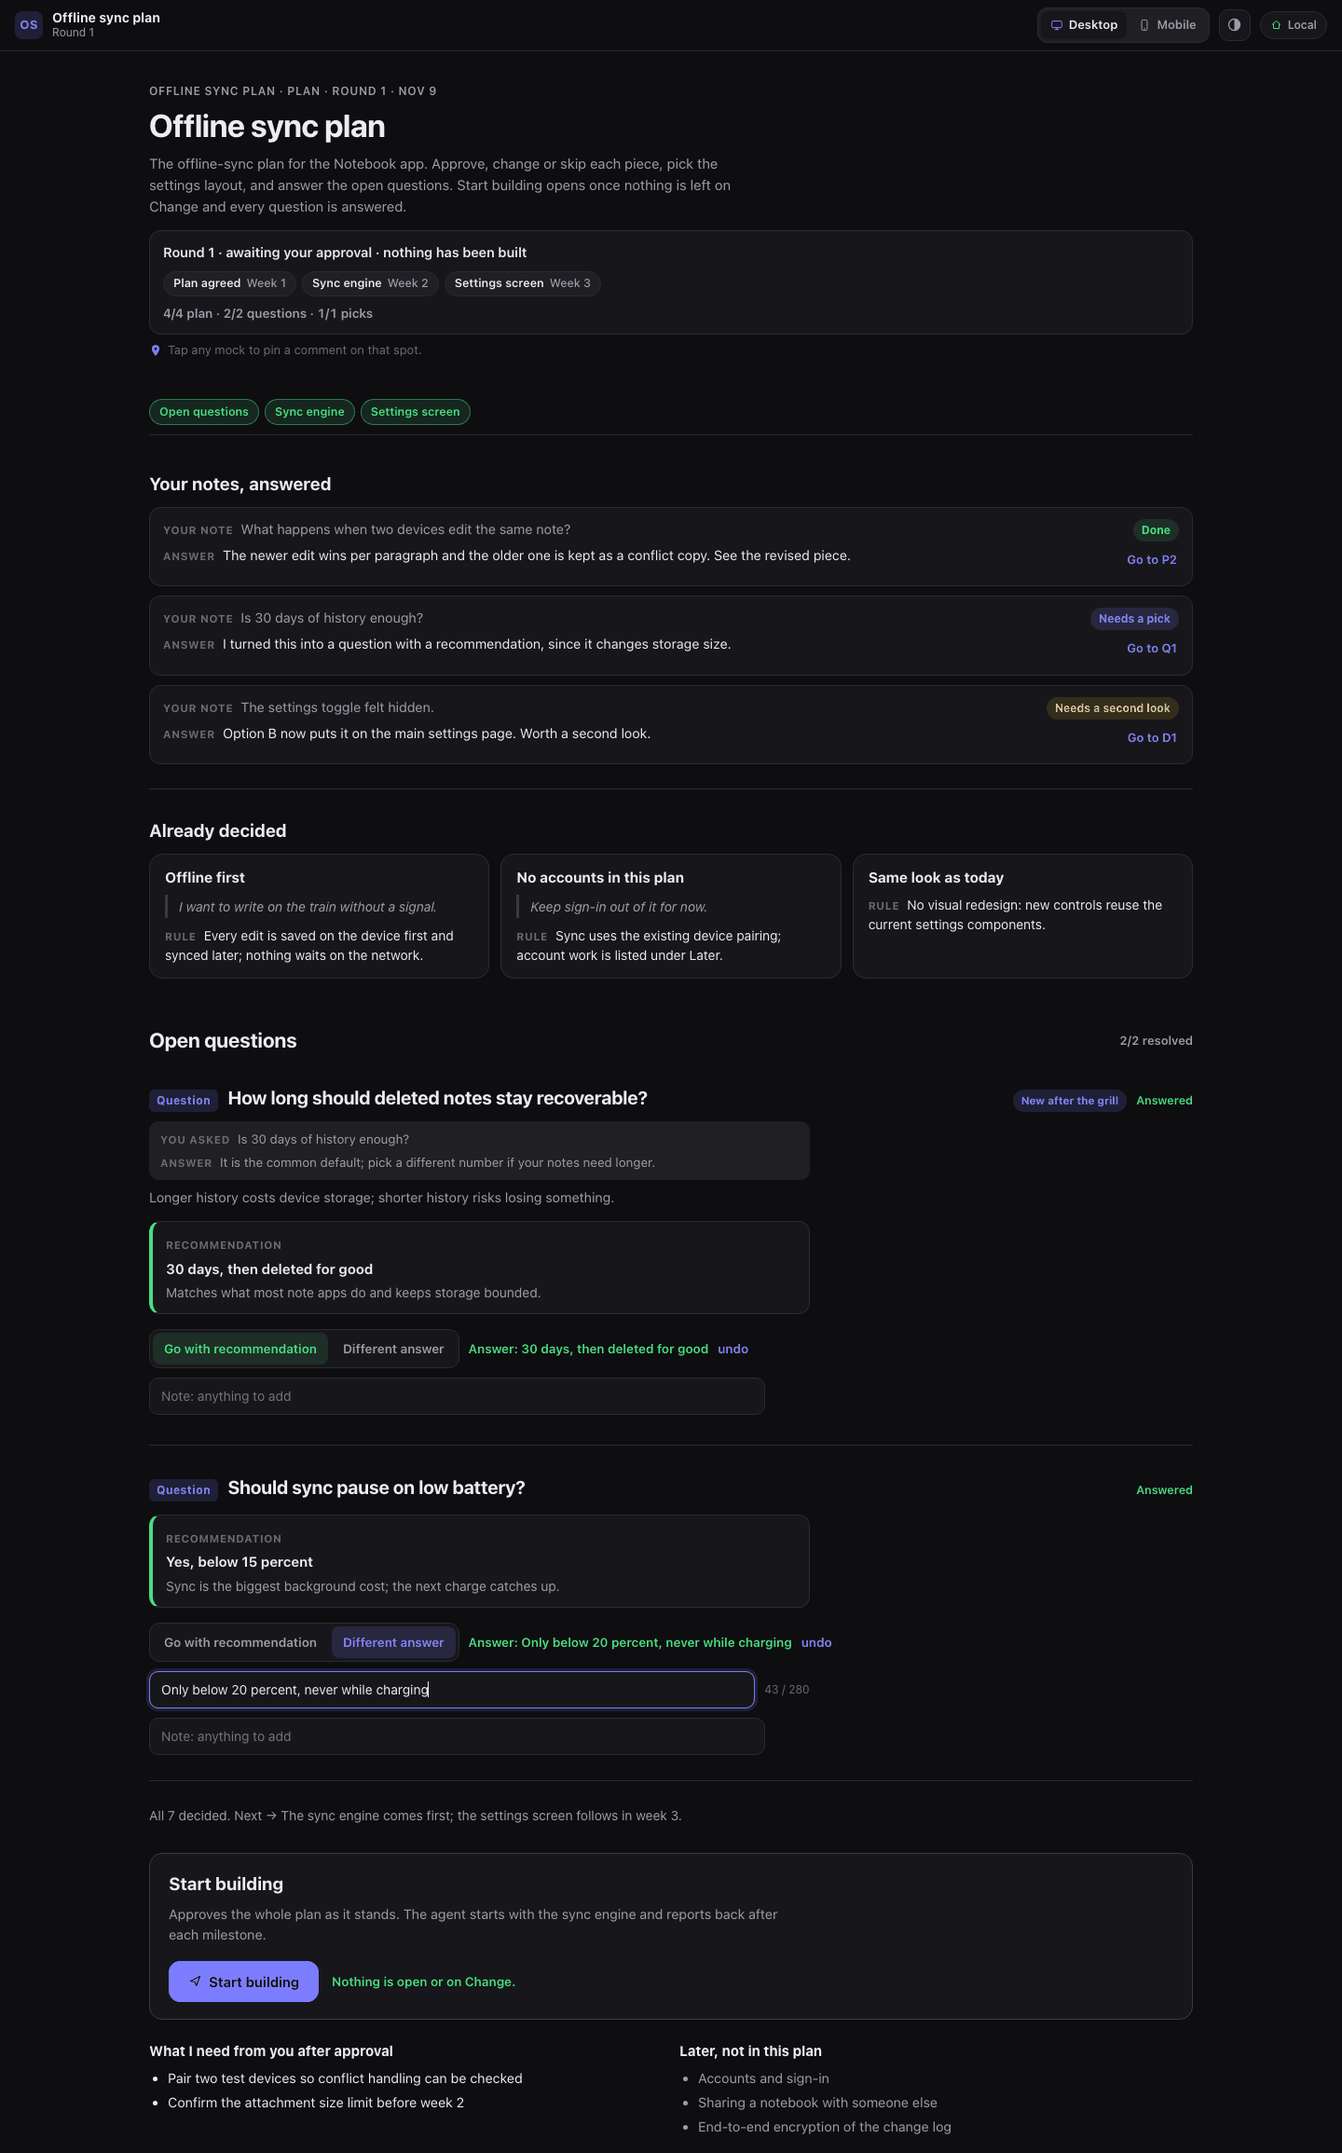
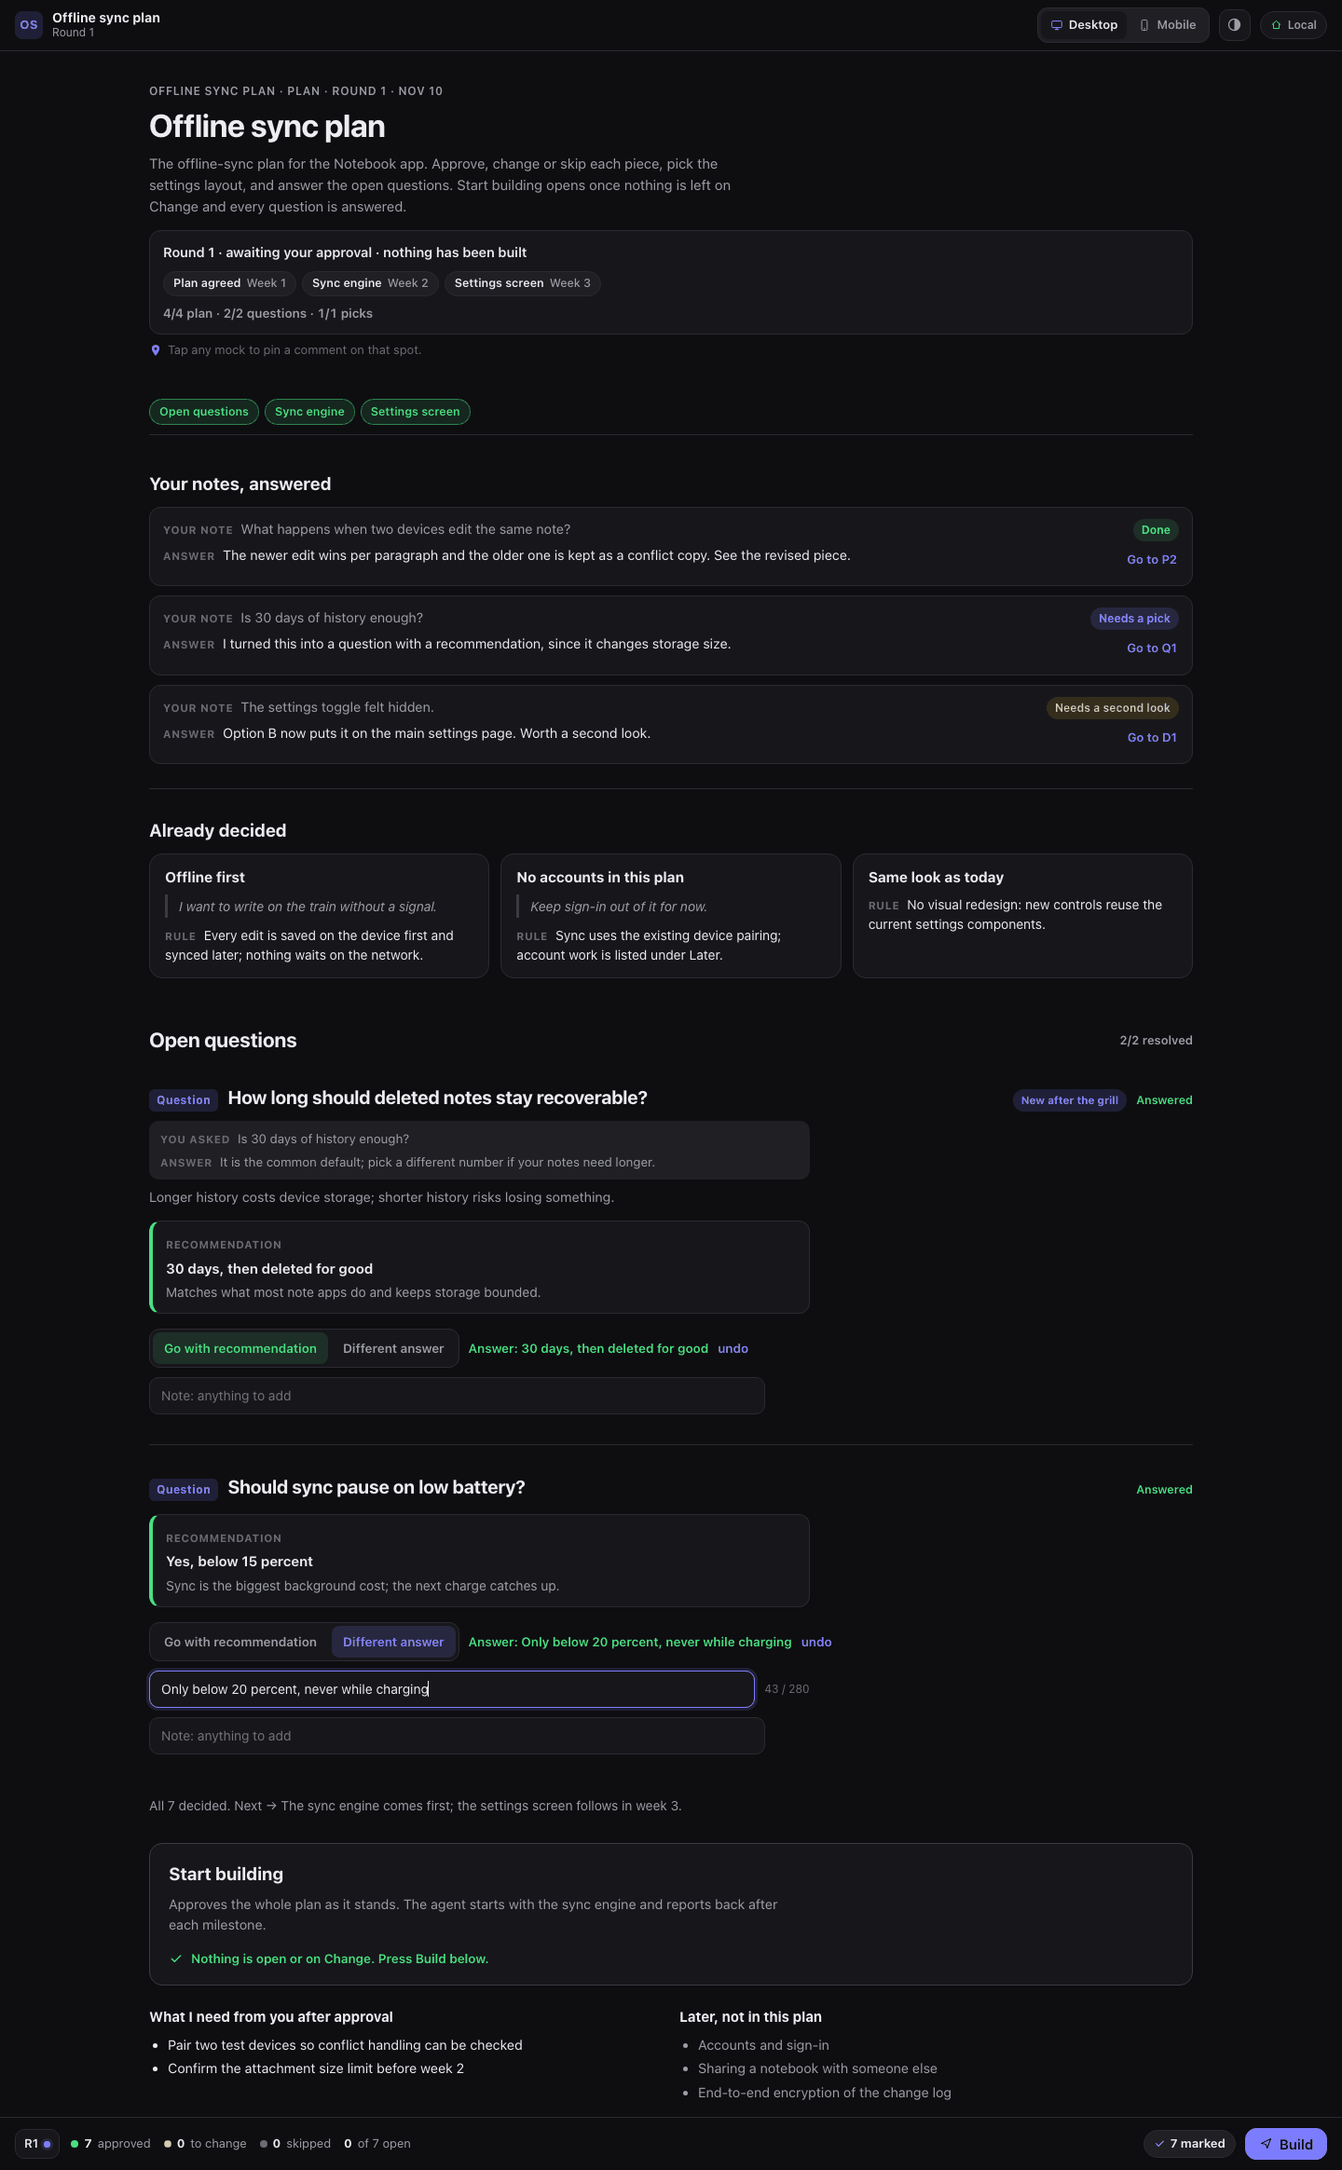
fix(board): Build takes the footer's Send slot, the section bar stays pinned on phones, and a question-or-decision rule
- A gate round has one footer button: Send notes until nothing is open or on Change, then Build. The gate card keeps the
  live reason (lock or check) and no longer carries its own button.
- The section jump bar stays sticky under the header on phones too.
- Usage skill and decisions format: if the answers can be listed, use a decision; a question is for a value or policy
  the user owns.
- README and plan-board screenshot updated.

diff --git a/mockreview/board/board.js b/mockreview/board/board.js
@@ -1275,10 +1275,8 @@
     if (pressed) {
       append(card, h('p', { class: 'gate-done', role: 'status' }, icon('check'), label + ' pressed' + (pressedAt(r) ? ' · ' + pressedAt(r) : '')));
     } else {
-      append(card, h('div', { class: 'gate-actions' },
-        h('button', { class: 'btn btn-primary btn-gate', id: 'gate-btn', onclick: function () { if (gateState(r.decisions, S.draft.marks, g).ready && isEditable()) send('build'); } },
-          icon(gateIcon(false, true)), h('span', { class: 'gate-label', text: label })),
-        h('span', { class: 'gate-reason', id: 'gate-reason' })));
+      // the Build button itself lives in the footer, in the Send slot; the card keeps the live reason
+      append(card, h('div', { class: 'gate-actions' }, icon('lock'), h('span', { class: 'gate-reason', id: 'gate-reason' })));
     }
     var after = g.after || [], later = g.later || [];
     var lists = after.length || later.length ? h('div', { class: 'gate-lists' },
@@ -1288,20 +1286,30 @@
     setTimeout(updateGate, 0);
     return sec;
   }
+  var GATE_BTN = 'Build';   // short, so it fits the footer's Send slot on a phone
+  function gateReason(gs, ed) {
+    return !ed ? 'This round is locked.' : S.sending ? 'Sending…' : gs.ready ? 'Nothing is open or on Change.' : gs.reason;
+  }
   function updateGate() {
-    var btn = document.getElementById('gate-btn'); if (!btn) return;
     var r = viewed(), g = r.gate || (DOC && DOC.dec.gate); if (!g) return;
     var gs = gateState(r.decisions, S.draft.marks, g), ed = isEditable();
     var ok = gs.ready && ed && !S.sending;
-    var reason = !ed ? 'This round is locked.' : S.sending ? 'Sending…' : gs.ready ? 'Nothing is open or on Change.' : gs.reason;
+    var reason = gateReason(gs, ed);
+    var rs = document.getElementById('gate-reason');
+    if (rs) {
+      rs.textContent = gs.ready && ed && !S.sending ? reason + ' Press ' + GATE_BTN + ' below.' : reason;
+      rs.classList.toggle('ready', ok);
+      var gi = rs.parentNode ? Array.prototype.filter.call(rs.parentNode.children, function (c) { return /^svg$/i.test(c.tagName); })[0] : null;
+      var want0 = ok ? 'check' : 'lock';
+      if (gi && gi.getAttribute('data-icon') !== want0) gi.replaceWith(icon(want0));
+    }
+    var btn = document.getElementById('gate-btn'); if (!btn) return;
     btn.setAttribute('aria-disabled', ok ? 'false' : 'true');
     btn.title = ok ? (g.label || 'Start building') + ': send the approved plan to Hermes' : reason;
     btn.classList.toggle('is-disabled', !ok);
     var want = gateIcon(gs.ready, ed), cur = btn.querySelector('svg.ico');
     if (cur && cur.getAttribute('data-icon') !== want) { btn.replaceChild(icon(want), cur); }
-    var lab = btn.querySelector('.gate-label'); if (lab) lab.textContent = S.sending ? 'Sending…' : (g.label || 'Start building');
-    var rs = document.getElementById('gate-reason');
-    if (rs) { rs.textContent = reason; rs.classList.toggle('ready', ok); }
+    var lab = btn.querySelector('.gate-label'); if (lab) lab.textContent = S.sending ? 'Sending…' : GATE_BTN;
   }
 
   function renderTally(r) {   // lives in the footer
@@ -1939,10 +1947,17 @@
     }
     if (missing.length && !S.error) setFootMsg('warn', 'Add a note to each Change before sending:', '', missing);
     var ready = hasContent(S.draft) && !S.sending && !missing.length;
-    var gated = isNew(r) && !!r.gate;   // a round with a gate: Send is the secondary "Send notes", the gate is primary
+    var gated = isNew(r) && !!r.gate && !S.amending;   // a gate round: one slot, Send notes until the gate is ready, then Build
+    var gs = gated ? gateState(r.decisions, S.draft.marks, r.gate) : null;
+    if (gated && gs.ready && isEditable()) {
+      inner.appendChild(h('button', { class: 'btn btn-primary btn-send btn-gate', id: 'gate-btn',
+        onclick: function () { send('build'); }, title: (r.gate.label || 'Start building') + ': send the approved plan to Hermes' },
+        S.sending ? h('span', { class: 'spinner' }) : icon('send'), h('span', { class: 'gate-label', text: S.sending ? 'Sending…' : GATE_BTN })));
+      return;
+    }
     inner.appendChild(h('button', {
-      class: 'btn btn-send' + (gated ? '' : ' btn-primary'), disabled: ready ? null : true, onclick: function () { send(); },
-      title: missing.length ? 'Every Change needs a note first' : hasContent(S.draft) ? 'Send this round’s feedback to Hermes' : (isNew(r) ? 'Mark a decision, pin a mock or write a note first' : 'Pick a variant, drop a pin or write a note first')
+      class: 'btn btn-send btn-primary', disabled: ready ? null : true, onclick: function () { send(); },
+      title: missing.length ? 'Every Change needs a note first' : gated && !hasContent(S.draft) ? 'Mark a block, answer a question or write a note first. ' + GATE_BTN + ' takes this spot once nothing is open or on Change' : hasContent(S.draft) ? 'Send this round’s feedback to Hermes' : (isNew(r) ? 'Mark a decision, pin a mock or write a note first' : 'Pick a variant, drop a pin or write a note first')
     }, S.sending ? h('span', { class: 'spinner' }) : icon('send'), S.sending ? 'Sending…' : (S.amending ? 'Send amendment' : (gated ? 'Send notes' : isNew(r) ? 'Send' : 'Send to Hermes'))));
   }
 

diff --git a/mockreview/board/board.css b/mockreview/board/board.css
@@ -494,7 +494,7 @@ figure.ctx-fig { margin-top: 16px; }
   .t-count .ts { display: inline; }
   .dz { padding: 0 14px 32px; }
   .doc-head { padding-top: 22px; }
-  .dnav { position: static; }
+  .dnav { margin: 12px 0 6px; padding: 8px 0; }   /* stays sticky on a phone: the section jumps are the way around a long plan */
   .blk { padding: 24px 0 22px; }
   .ihead h3 { font-size: 18px; }
   .decide .grp { flex: 1 1 auto; justify-content: space-between; }
@@ -562,8 +562,9 @@ figure.ctx-fig { margin-top: 16px; }
 .gate { border-bottom: 0; }
 .gate-card { padding: 18px 20px; border: 1px solid var(--line-strong); border-radius: var(--r); background: var(--surface); box-shadow: var(--shadow-sm); }
 .gate-card h2 { margin: 0 0 6px; }
-.gate-actions { display: flex; align-items: center; gap: 10px 14px; flex-wrap: wrap; margin-top: 16px; }
-.btn-gate { height: 44px; padding: 0 20px; font-size: 15px; border-radius: 12px; }
+.gate-actions { display: flex; align-items: center; gap: 8px; margin-top: 14px; color: var(--warn); }
+.gate-actions svg.ico { flex: none; }
+.gate-actions:has(.ready) { color: var(--ok); }
 .btn-gate[aria-disabled=true] { opacity: .45; cursor: not-allowed; }
 .btn-gate[aria-disabled=true]:hover { background: var(--accent); border-color: var(--accent); }
 .gate-reason { min-width: 0; font-size: 13.5px; font-weight: 600; color: var(--warn); overflow-wrap: anywhere; }
@@ -584,5 +585,4 @@ figure.ctx-fig { margin-top: 16px; }
   .qdecide .qbtn { flex: 1 1 auto; }
   .qresult { flex-basis: 100%; }
   .gate-card { padding: 16px; }
-  .btn-gate { width: 100%; }
 }

diff --git a/tests/test_board_plan.py b/tests/test_board_plan.py
@@ -11,7 +11,7 @@ import pytest
 ROOT = Path(__file__).resolve().parents[1]
 SRC = (ROOT / 'mockreview/board/board.js').read_text(encoding='utf-8')
 NAMES = ['h', 'append', 'paras', 'entryKind', 'capCustom', 'isResolved', 'gateState', 'progressLine', 'isMarkableBlock',
-         'groupBlocks', 'approveRestIds', 'groupHasBulk', 'gateIcon', 'endLine', 'icon', 'updateGate', 'cleanMarks', 'answerText', 'payload', 'renderQuestion', 'renderPiece',
+         'groupBlocks', 'approveRestIds', 'groupHasBulk', 'gateIcon', 'endLine', 'icon', 'updateGate', 'gateReason', 'cleanMarks', 'answerText', 'payload', 'renderQuestion', 'renderPiece',
          'renderSettled', 'renderAsked', 'renderNotesAnswered', 'markEmpty', 'submittedFeedback', 'watchWindowMs']
 
 
@@ -21,7 +21,8 @@ def run(test):
         pytest.skip('Node is needed for executed board DOM tests')
     parts = [re.search(r'^  var LIMIT = .*$', SRC, re.M).group(0), "var PROGRESS = " + re.search(r'^  var PROGRESS = (.*);$', SRC, re.M).group(1) + ";",
              "var NOTE_CHIP = " + re.search(r'^  var NOTE_CHIP = (.*);$', SRC, re.M).group(1) + ";",
-             "var WATCH_EVERY = " + re.search(r'^  var WATCH_EVERY = (.*);$', SRC, re.M).group(1) + ";"]
+             "var WATCH_EVERY = " + re.search(r'^  var WATCH_EVERY = (.*);$', SRC, re.M).group(1) + ";",
+             "var GATE_BTN = " + re.search(r"^  var GATE_BTN = ([^;]*);", SRC, re.M).group(1) + ";"]
     for name in NAMES:
         start = re.search(r'^  function ' + name + r'\(', SRC, re.M)
         assert start, name
@@ -171,7 +172,8 @@ const ico = () => btn.querySelectorAll('svg')[0].getAttribute('data-icon');
 updateGate(); assert.equal(ico(), 'lock'); assert.equal(btn.querySelectorAll('svg').length, 1);
 S.draft.marks = {p1: {status: 'approve'}, q1: {choice: 'recommended'}};
 updateGate(); assert.equal(ico(), 'send'); assert.equal(btn.children[0].tagName, 'SVG'); assert.equal(btn.querySelectorAll('svg').length, 1);
-assert.equal(rs.textContent, 'Nothing is open or on Change.'); assert.ok(rs.classList.contains('ready'));
+assert.equal(rs.textContent, 'Nothing is open or on Change. Press Build below.'); assert.ok(rs.classList.contains('ready'));
+assert.equal(lab.textContent, 'Build');   // short label: it shares the footer slot with Send notes
 S.sending = true; updateGate(); assert.equal(ico(), 'send'); assert.equal(lab.textContent, 'Sending…');   // stays on send while sending
 S.sending = false; ed = false; updateGate(); assert.equal(ico(), 'lock');
 S.draft.marks = {p1: {status: 'change'}, q1: {choice: 'recommended'}}; ed = true; updateGate(); assert.equal(ico(), 'lock');
@@ -226,4 +228,21 @@ assert.equal(watchWindowMs({n: 2, feedback: {action: 'build'}}), 8 * 3600 * 1000
 assert.equal(watchWindowMs({n: 2, feedback: {action: 'send'}}), 2 * 3600 * 1000);
 assert.equal(watchWindowMs({n: 2, feedback: {}}), 2 * 3600 * 1000);
 assert.equal(watchWindowMs({n: 2}), 2 * 3600 * 1000);   // no feedback yet: the ordinary window
+''')
+
+
+def test_gate_card_has_no_button_and_its_reason_still_updates():
+    run('''
+global.ICONS = {lock: '', send: '', check: ''};
+const row = document.createElement('div'); row.appendChild(icon('lock'));
+const rs = document.createElement('span'); rs.setAttribute('id', 'gate-reason'); row.appendChild(rs);
+global.ROOT_NODE = row;
+const I = [{id: 'p1', kind: 'piece', group: 'A'}, {id: 'q1', kind: 'question', group: 'Q'}];
+const g = {label: 'Start building'};
+global.S = {draft: {marks: {}}, sending: false}; global.DOC = {dec: {gate: g}}; global.viewed = () => ({decisions: I, gate: g}); global.isEditable = () => true;
+updateGate(); assert.ok(/still open/.test(rs.textContent), rs.textContent); assert.ok(!rs.classList.contains('ready'));
+assert.equal(row.children[0].getAttribute('data-icon'), 'lock');
+S.draft.marks = {p1: {status: 'approve'}, q1: {choice: 'recommended'}};
+updateGate(); assert.equal(rs.textContent, 'Nothing is open or on Change. Press Build below.'); assert.ok(rs.classList.contains('ready'));
+assert.equal(row.children[0].getAttribute('data-icon'), 'check'); assert.equal(row.children.length, 2);
 ''')

diff --git a/README.md b/README.md
@@ -10,11 +10,12 @@ inline mocks at desktop, tablet and phone widths, in light and dark, and wear a 
 A `plan` preset round uses the same fixed skeleton as a design board: a status line, "Already decided", a defaults card,
 the plan grouped by section, then a final approval. Questions carry a recommendation (go with it, or type a different
 answer); pieces, defaults and decisions are approved, changed or skipped, and "Approve the rest" fills a section in one
-press. The "Start building" gate stays locked until every question is answered, everything else is approved or skipped,
-and nothing is on Change.
+press. The footer button reads "Send notes" until every question is answered, everything else is approved or skipped
+and nothing is on Change; then it turns into "Build". The section bar stays pinned under the header, so a long plan is
+one tap from any section.
 
-Start building wakes the same chat session with the approved plan. The agent builds there, and the result arrives as the
-next round on the same link, with "Your notes, answered" and Revised badges on the blocks that changed.
+Build wakes Hermes on the chat the board came from, with the approved plan. The agent builds, and the result arrives as
+the next round on the same link, with "Your notes, answered" and Revised badges on the blocks that changed.
 
 A design profile is bound to a project once, with `hermes mockreview design bind <name> <abs project path>`. It then
 auto-applies to every create and add-round in that project (or its git repository and worktrees). A round whose mocks use
@@ -27,7 +28,7 @@ To see a plan board without an agent, create the demo from a checkout with a boa
 
 `examples/plan-demo/decisions.json` uses every 1.2 block; the printed link opens round 1.
 
-<img src="docs/img/plan-board.png" alt="The plan demo board: status and milestones, your notes answered, already decided, two question cards (one with a typed answer), and the Start building gate ready" width="100%">
+<img src="docs/img/plan-board.png" alt="The plan demo board: status and milestones, your notes answered, already decided, two question cards (one with a typed answer), the gate cleared and Build in the footer" width="100%">
 
 <img src="docs/img/showcase.jpg" alt="mock-review: a Discord thread next to a review board showing a Cash Flow decision" width="100%">
 

diff --git a/docs/decisions-format.md b/docs/decisions-format.md
@@ -47,8 +47,9 @@ id of a block in this file (any block with an id, including a recap). `note` (th
 
     {"ref": "p2", "note": "What if two devices edit the same note?", "answer": "The newer edit wins; see the revised piece.", "status": "second-look"}
 
-`gate`: the locked final approval. The board opens its button only when nothing is left on Change, every markable block
-is approved or skipped and every question is answered. Pressing it sends the review with the action `build`.
+`gate`: the locked final approval. The gate card shows what is still open; the footer's Send button reads "Send notes"
+until nothing is left on Change, every markable block is approved or skipped and every question is answered, and then
+turns into "Build". Pressing Build sends the review with the action `build`.
 
 - `label` is 40 characters and defaults to `Start building`.
 - `text` (600) says what happens when it is pressed.
@@ -119,6 +120,12 @@ different answer (280 characters), and may add a note. `title` is required (200 
 `recommendation` is required: `answer` (300 characters, required) and `why` (600).
 
     {"type": "question", "id": "q1", "title": "How long do deleted notes stay recoverable?", "recommendation": {"answer": "30 days", "why": "Keeps storage bounded."}, "group": "Open questions"}
+
+Question or decision? If you can write the answers down, it is a `decision`: two or three concrete alternatives the
+reviewer compares and picks with one tap, with or without a mock (the plan preset accepts decisions too). Use a
+`question` only when the answer is a value or policy the reviewer owns (a number, a limit, a name) or the range is too
+open to list; the recommendation is the one-tap default. Never make the reviewer type out an option you could have
+listed.
 
 `piece`: one piece of a plan, marked approve / change / skip with a note. `title` is required. `tag` (80), `text` (2000)
 and `items` (0 to 30 strings of 600 characters) are optional. `html` is an optional mock, cleaned exactly like a `mock`

diff --git a/skills/usage/SKILL.md b/skills/usage/SKILL.md
@@ -50,6 +50,10 @@ The feedback then has `action: "build"` and a `next_step`. The plugin already po
 appear in the tally or the marks. For a planning task use `"preset": "plan"` with `settled`, `defaults`, `question` and
 `piece` blocks; use the design preset (the default) with `decision` blocks for visual options.
 
+Question or decision: if you can list the answers, use a `decision` with two or three options (plan boards take them
+too). Use a `question` only for a value or policy the user owns (a number, a limit, a name) or an answer too open to
+list, and put your best answer in `recommendation`. Never make the user type an option you could have listed.
+
 - `text` `{title?, text}`: prose that frames the round.
 - `callout` `{tone, title?, text}`: one constraint or risk. tone is neutral, ok, warn, err or accent.
 - `cards` `{title?, items: [{title, text?, pill?, tone?}]}`: 1 to 12 items, for "what is changing".
